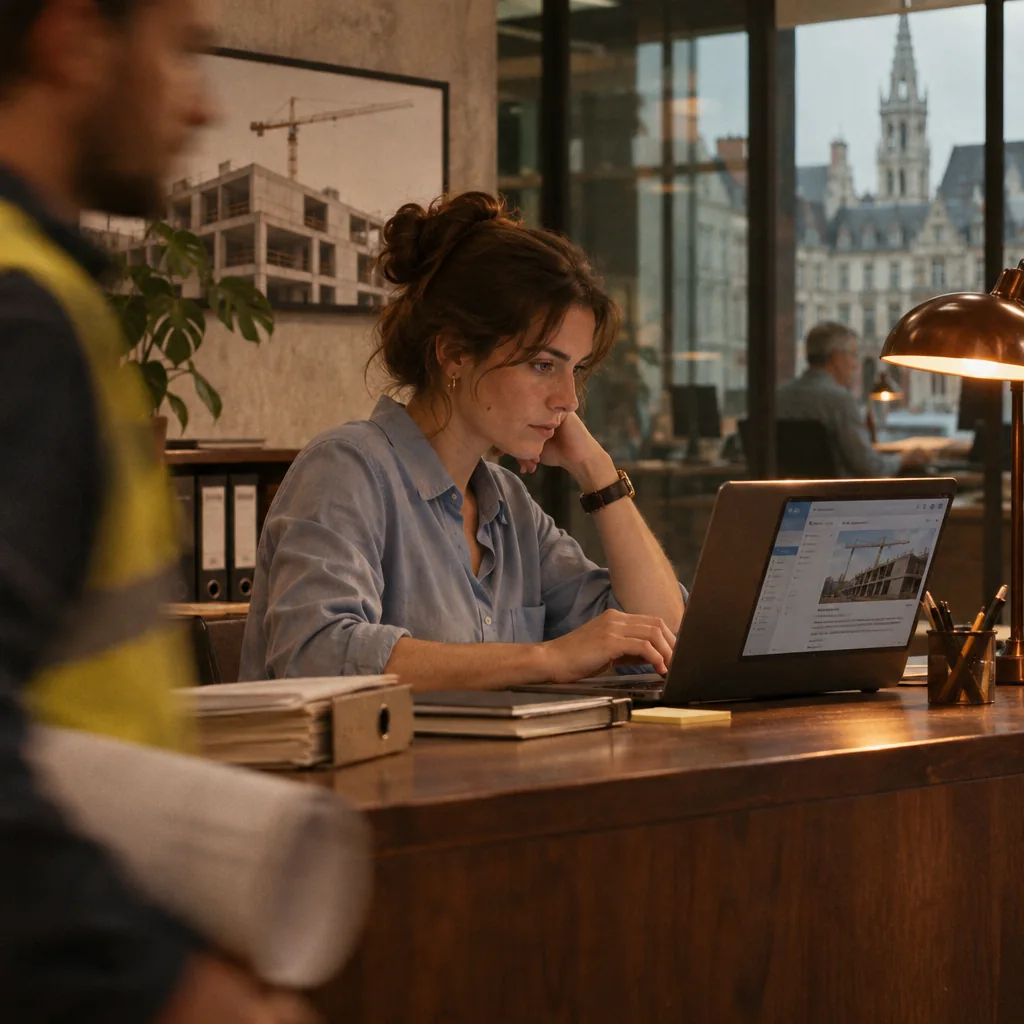
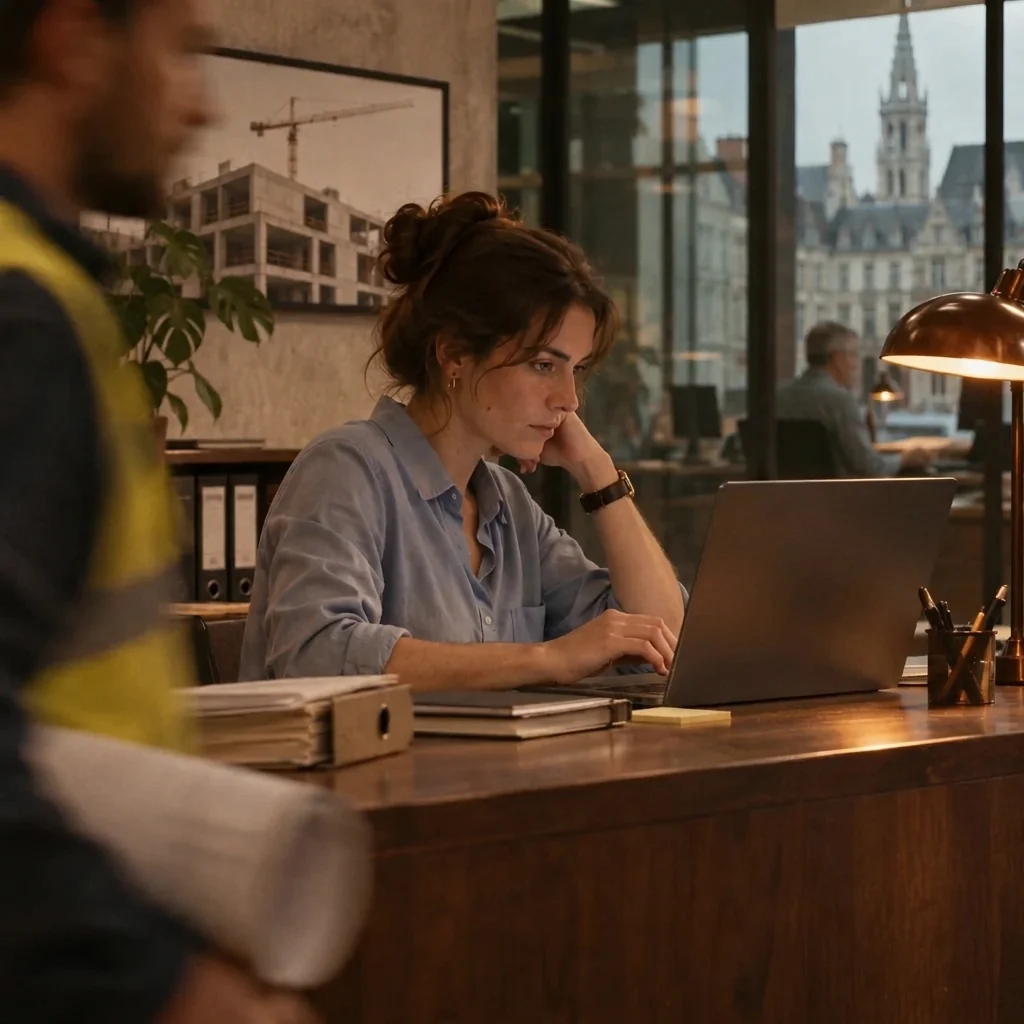
Fix mobile application cards and intake image

Changed region(s): [[0.5312, 0.4688, 0.9688, 0.75]]

diff --git a/src/components/marketing/cinematic-content.ts b/src/components/marketing/cinematic-content.ts
@@ -36,19 +36,19 @@ export const applications = [
   },
   {
     slug: "leveranciers-vergelijken",
-    title: "Leveranciersoffertes naast elkaar",
+    title: "Leveranciersoffertes vergelijken",
     category: "Kosten & facturatie",
     image: photos.warehouse,
-    description: "Een agent haalt prijzen, aantallen, levertermijnen en uitsluitingen uit je leveranciersoffertes en zet ze naast elkaar.",
-    result: "Een vergelijking die je aankoopbeslissing voorbereidt.",
+    description: "Een agent zet prijzen, aantallen, levertermijnen en uitsluitingen uit je leveranciersoffertes naast elkaar.",
+    result: "Je ziet de verschillen in één overzicht en kiest zelf bij wie je bestelt.",
   },
   {
     slug: "aanvragen-verwerken",
     title: "Van aanvraag naar dossier",
     category: "Aanvragen & offertes",
     image: photos.intake,
-    description: "Een agent leest binnenkomende mails en formulieren, maakt een dossier aan en geeft aan welke gegevens nog ontbreken.",
-    result: "Een aanvraagdossier met de open vragen op een rij.",
+    description: "Een agent maakt van een mail of formulier een dossier en duidt aan welke info nog ontbreekt.",
+    result: "Je team heeft de aanvraag en de open vragen op één plek.",
   },
   {
     slug: "leverbonnen-verwerken",

diff --git a/src/components/marketing/cinematic.module.css b/src/components/marketing/cinematic.module.css
@@ -605,7 +605,7 @@
   position: relative;
   isolation: isolate;
   display: grid;
-  grid-template-columns: 1fr auto;
+  grid-template-columns: minmax(0, 1fr) auto;
   grid-template-rows: 1fr auto;
   align-items: start;
   gap: 16px;
@@ -629,7 +629,10 @@
   grid-column: 1 / -1;
   align-self: end;
   justify-self: end;
-  font-size: clamp(12px, 1vw, 15px);
+  max-width: 100%;
+  font-size: clamp(13px, 1vw, 15px);
+  overflow-wrap: anywhere;
+  text-align: end;
 }
 
 .applicationCard img,
@@ -655,7 +658,7 @@
 }
 
 .applicationCard::after {
-  background: linear-gradient(180deg, #101010ab, #10101003 55%, #101010ad);
+  background: linear-gradient(180deg, #101010d9, #1010109c 32%, #10101003 57%, #101010d9);
 }
 
 .statement {
@@ -1372,8 +1375,8 @@
   }
 
   .carouselTrack {
-    grid-auto-columns: 79vw;
-    gap: 10px;
+    grid-auto-columns: 100%;
+    gap: var(--edge);
   }
 
   .featurePair,
